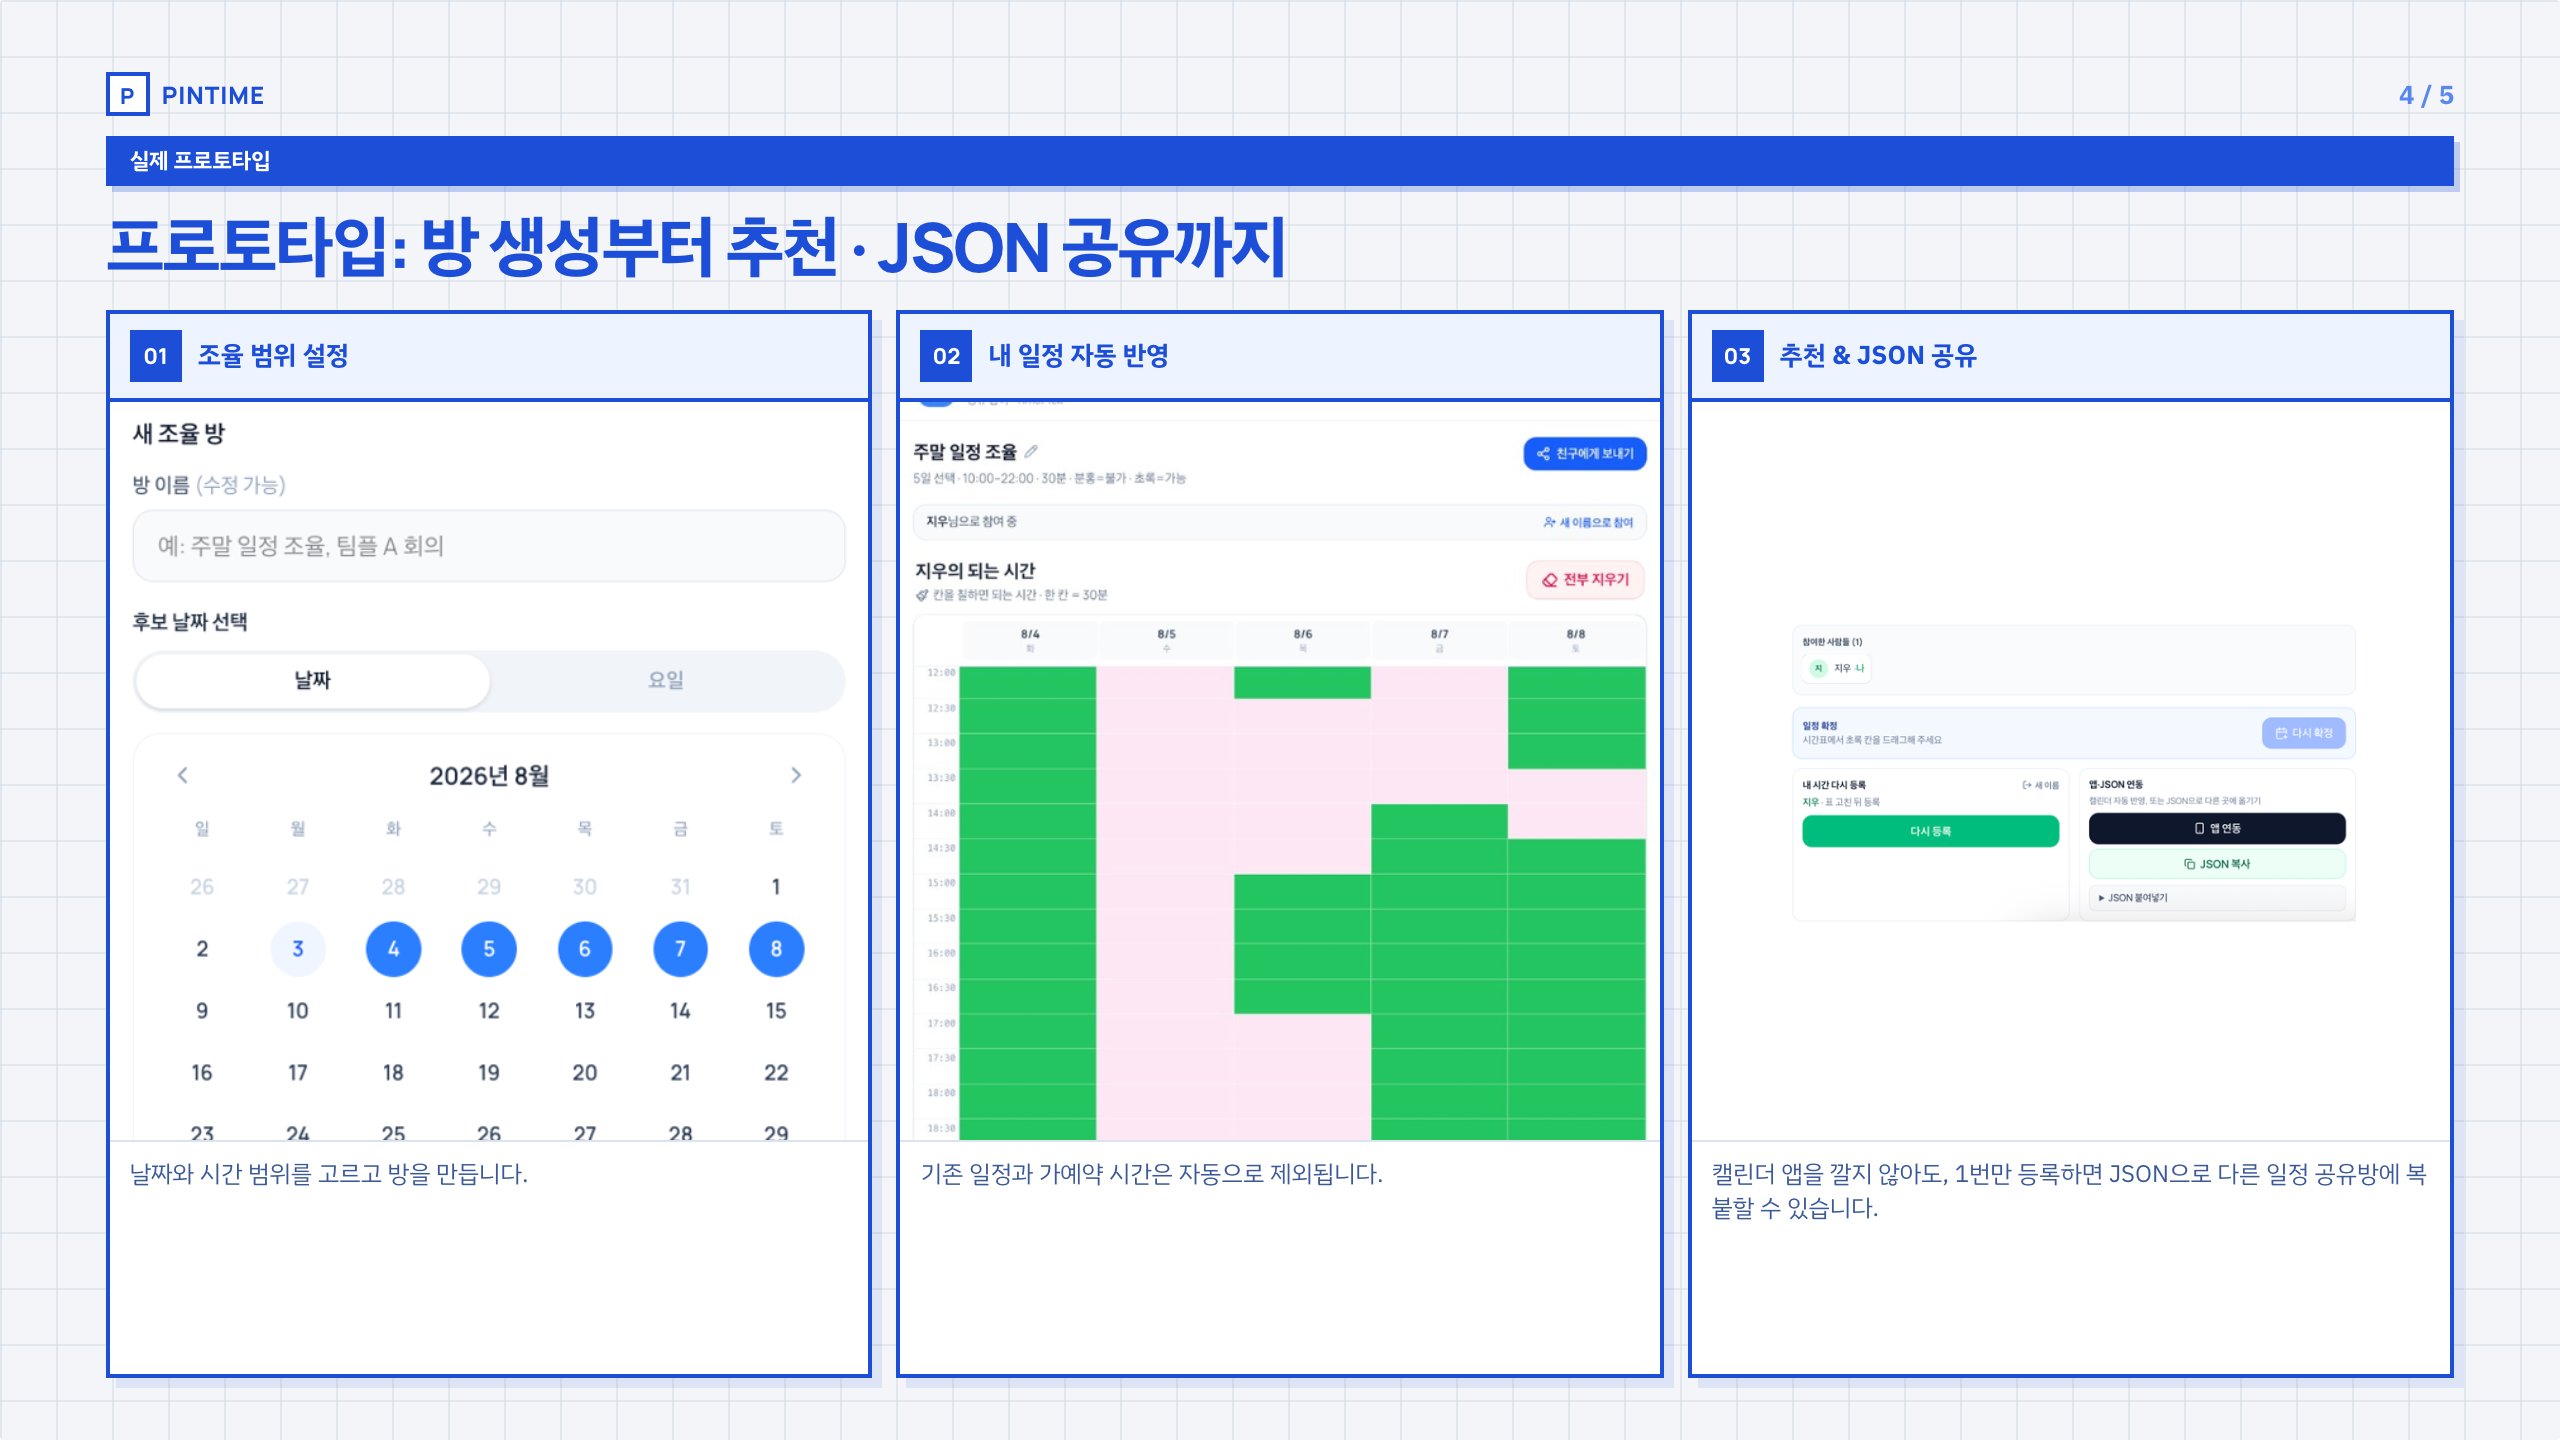
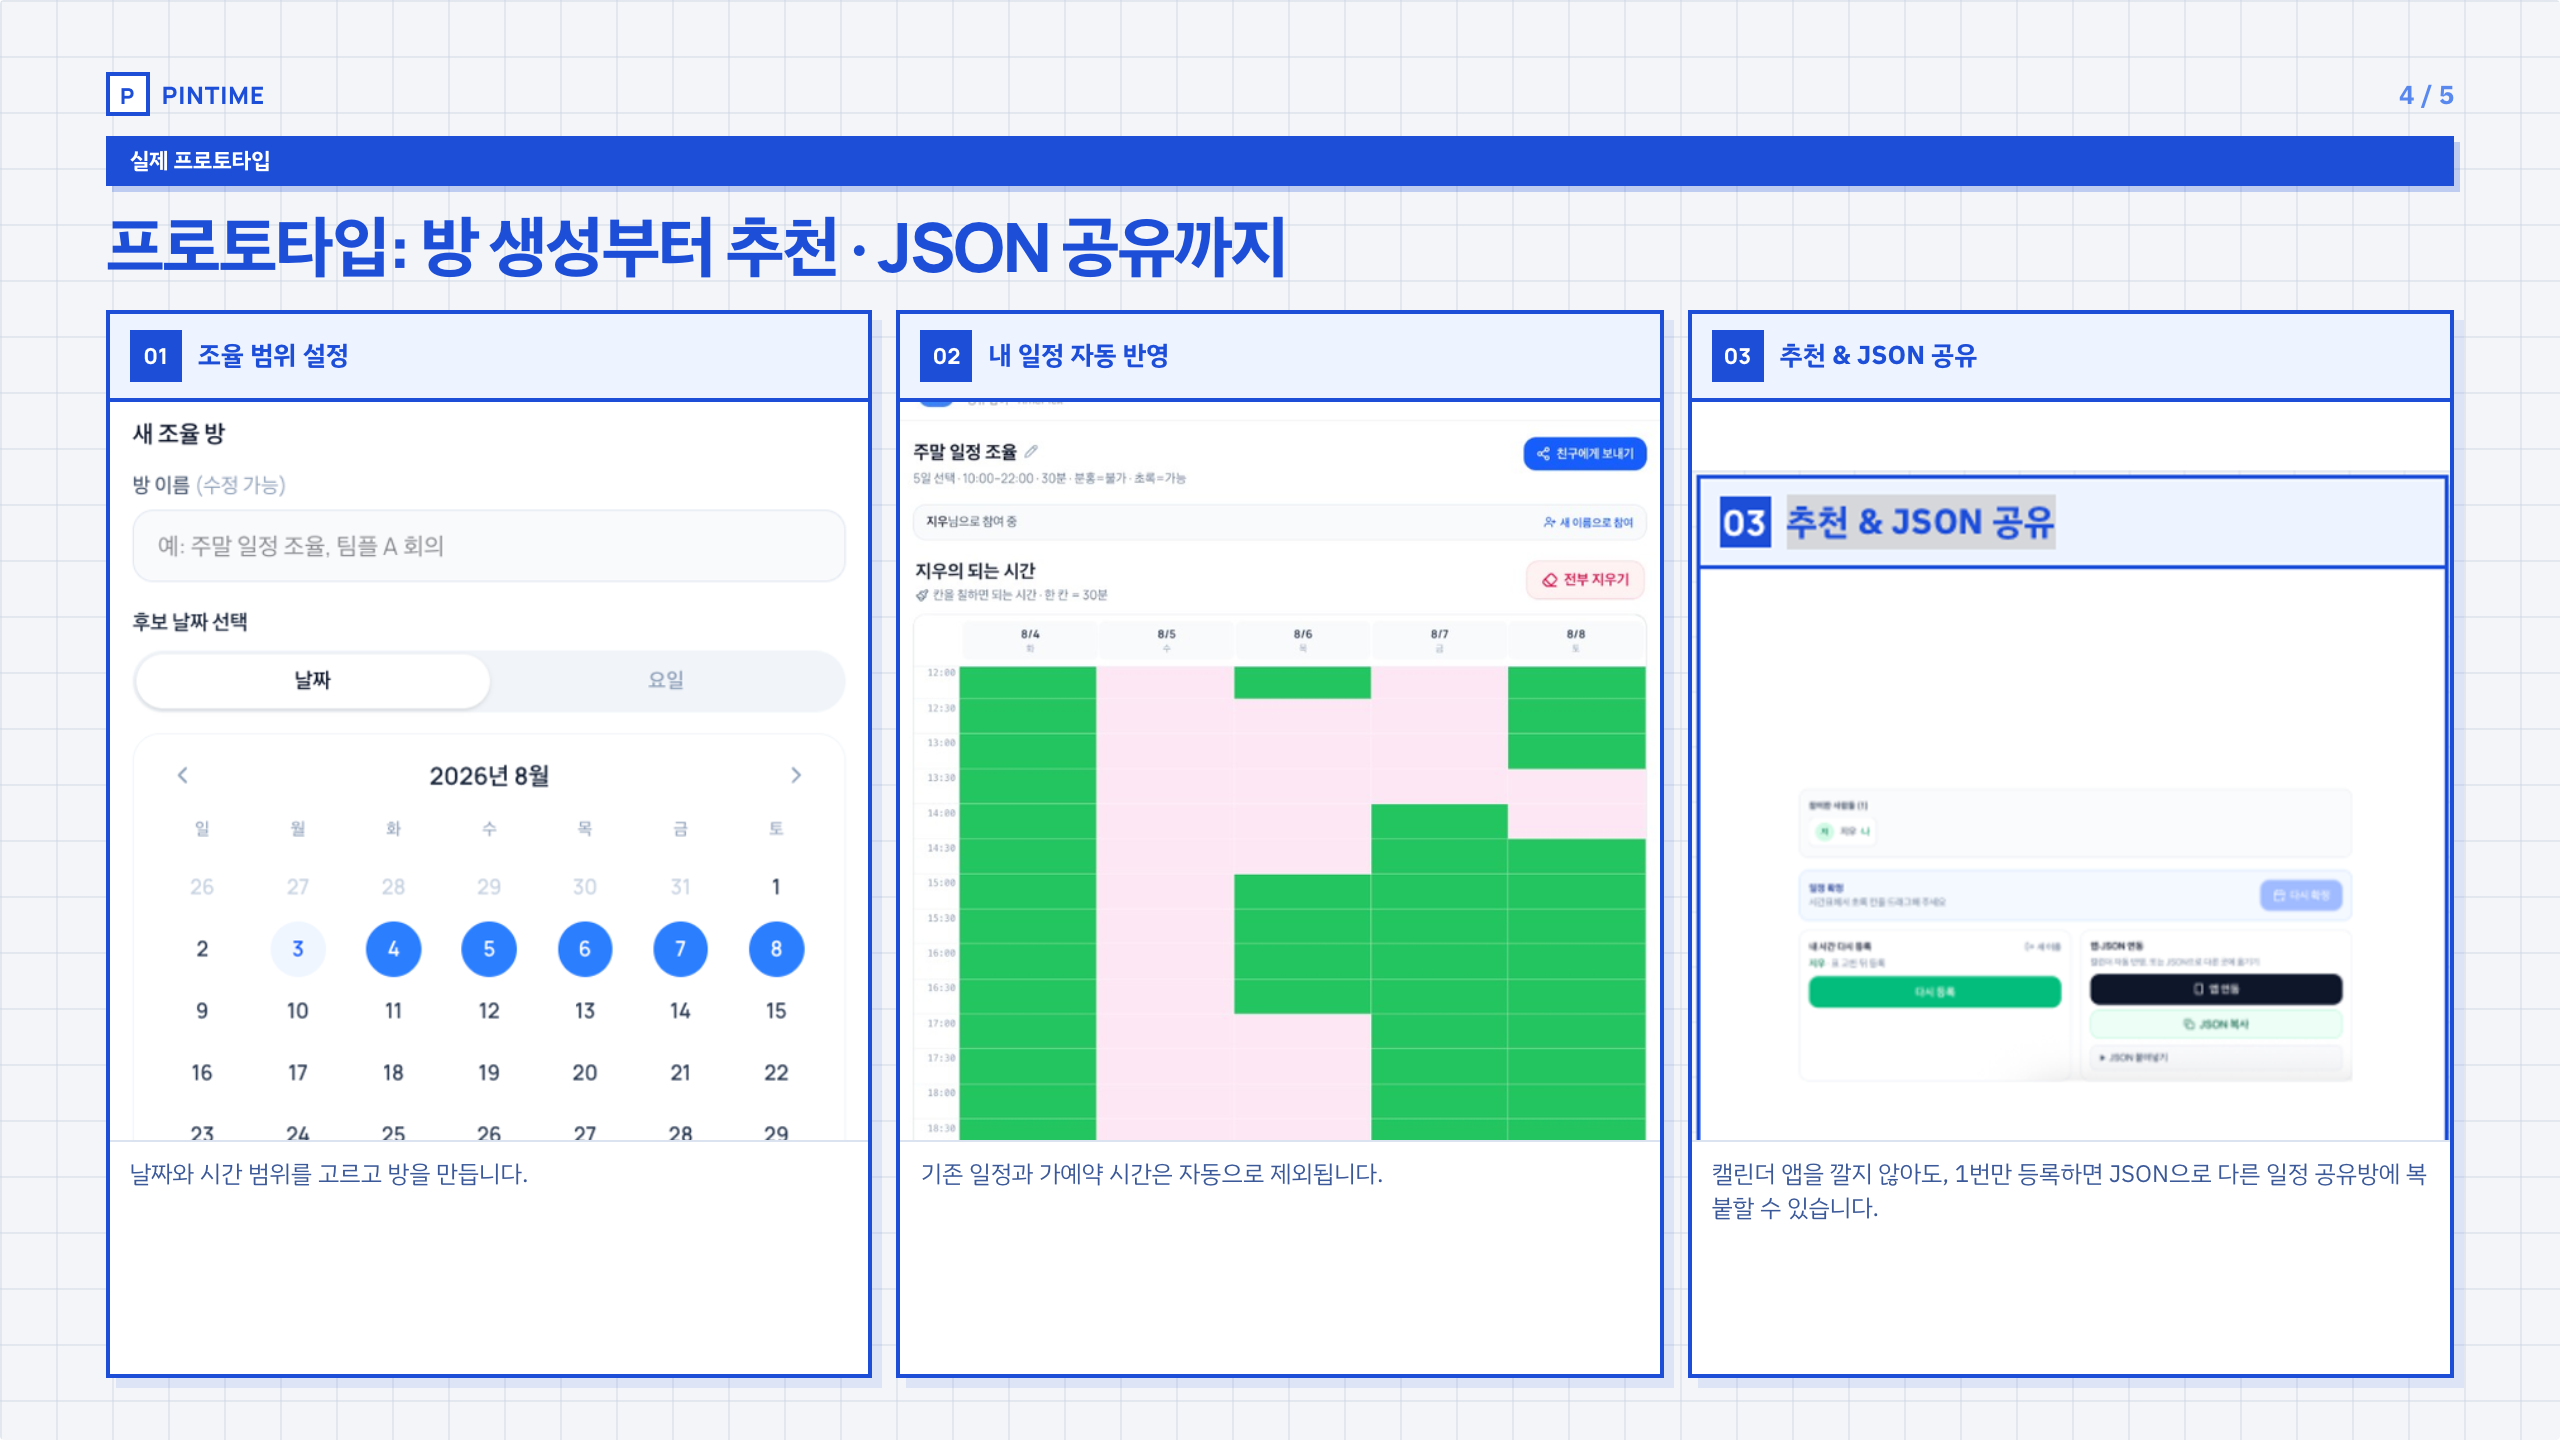
Fill JSON share card edge-to-edge with no side margins.

diff --git a/public/pitch.html b/public/pitch.html
@@ -585,8 +585,8 @@
         display: block;
       }
       .proto-card .shot.shot-fit-x {
-        object-fit: contain;
-        object-position: center;
+        object-fit: cover;
+        object-position: center top;
         background: #fff;
       }
       .proto-card .cap {
